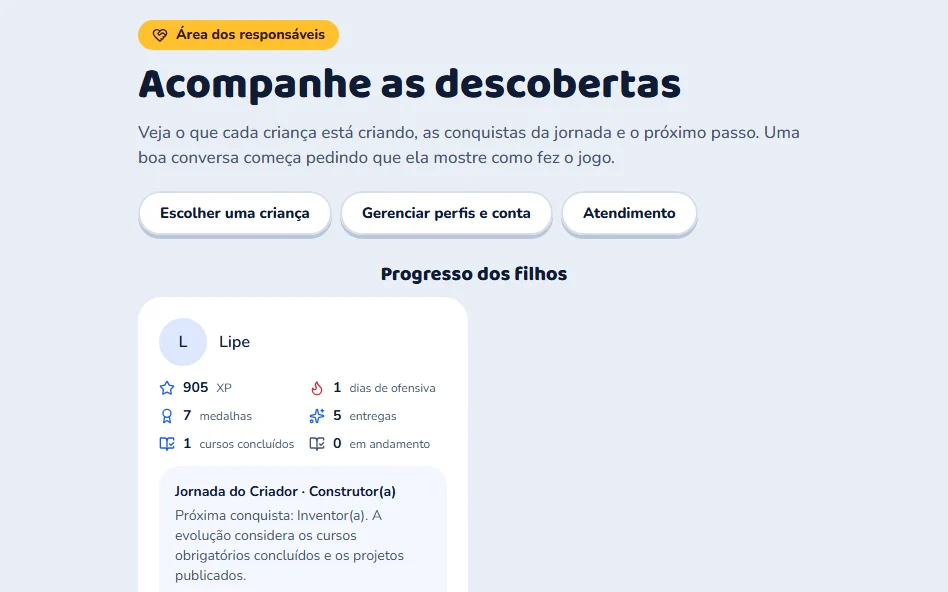
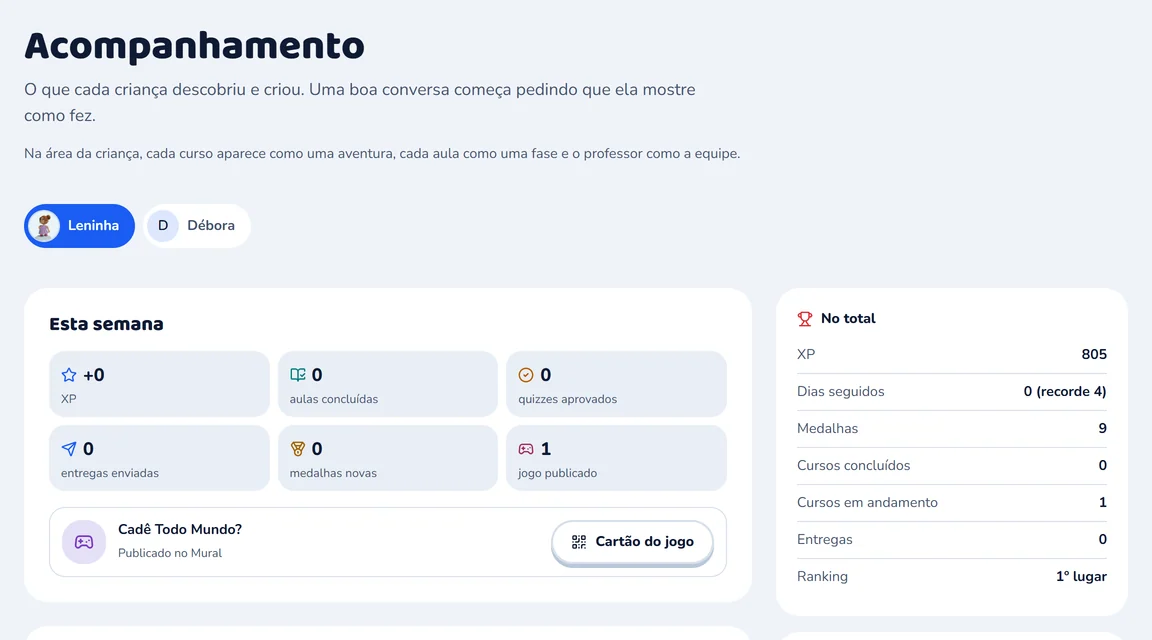
docs(como-fazer): prints do acesso e da área dos pais nova nos tutoriais e na página de vendas
- 25 prints novos nos seis tutoriais de acesso (preparar, entrar com código, trocar e voltar ao
  perfil, renovar ou encerrar e não consegui entrar), e o passo do acesso encerrado explica a
  tela que volta a pedir o código quando ninguém da família tem mais acesso no computador.
- Página de vendas: as telas da Área dos pais refeitas nas páginas novas (Acompanhamento,
  Editar perfil com a data embaçada, Atendimento, Conta e Família); Minhas compras segue a da
  conta da dona, com assinatura.
- O roteiro `pais` da captura usa a sessão do responsável e as páginas /pais, com recortes
  pelos elementos.

diff --git a/packages/funnel/scripts/captura-telas-kids.ts b/packages/funnel/scripts/captura-telas-kids.ts
@@ -20,8 +20,6 @@
  *                   (padrão: base-3-2 / dumb-animation / dumb-scene-2)
  *   KIDS_PINTA_BUSCA  o que digitar na busca da galeria para os desenhos bonitos subirem (padrão: base)
  *   KIDS_PLANO      plano do Pensa (padrão: ParOuImpar)   KIDS_MOLDA  modelo do Molda (padrão: player-2)
- *   KIDS_PAIS_SENHA_FILE  arquivo FORA do repositório com a senha da conta na primeira linha: com
- *                   ele o roteiro `pais` entra sozinho na Área dos pais (a senha nunca é impressa)
  *   KIDS_PERGUNTA   se o Zappy do Estúdio estiver sem conversa, faz esta pergunta (gasta crédito de IA)
  *   KIDS_CDP_PORT   usa um Chrome JÁ ABERTO com `--remote-debugging-port` e já logado no perfil
  *                   (dispensa o arquivo de cookies e não fecha o navegador ao fim)
@@ -32,9 +30,9 @@
  *
  * ⚠ Os cookies são uma sessão de verdade: o arquivo NUNCA entra no repositório (o script recusa um
  * caminho dentro dele), vencem em poucas horas, e o perfil do Chrome fica no TEMP e é apagado ao
- * fim. ⚠ A Área dos pais pede a senha da conta e a liberação vale 15 minutos (cookie
- * `sz_kids_parent`): rode `KIDS_SO=pais` com `KIDS_PAIS_SENHA_FILE`, ou exporte os cookies logo
- * depois de entrar nela. ⚠ Antes de fotografar o Estúdio os blocos são ORGANIZADOS (botão direito
+ * fim. ⚠ A Área dos pais é uma sessão de RESPONSÁVEL (desde o acesso infantil por aparelho,
+ * 10/10/2026): rode `KIDS_SO=pais` sozinho, com os cookies exportados logado como responsável.
+ * ⚠ Antes de fotografar o Estúdio os blocos são ORGANIZADOS (botão direito
  * numa área vazia › "Organizar blocos") e enquadrados no alto: soltos, eles ficam lá embaixo e
  * sobrepostos. Toda imagem precisa de revisão humana antes do commit (nomes de outros perfis no
  * Mural, dados na tela).
@@ -59,7 +57,6 @@ const pintaCenario = process.env.KIDS_PINTA_CENARIO ?? 'dumb-scene-2'
 const pintaBusca = process.env.KIDS_PINTA_BUSCA ?? 'base'
 const plano = process.env.KIDS_PLANO ?? 'ParOuImpar'
 const modelo = process.env.KIDS_MOLDA ?? 'player-2'
-const senhaPais = process.env.KIDS_PAIS_SENHA_FILE
 const pergunta = process.env.KIDS_PERGUNTA
 // ⚠ O token de sessão do kids GIRA a cada renovação: quem usa os cookies primeiro invalida a
 // cópia do arquivo. Para rodar o script duas vezes na mesma sessão, anexe a um Chrome já aberto.
@@ -72,10 +69,7 @@ if (!anexar && !cookiesFile) {
 }
 const repo = resolve(import.meta.dir, '..', '..', '..')
 const semCaixa = (c: string) => (process.platform === 'win32' ? c.toLowerCase() : c)
-for (const [arquivo, nome] of [
-  [cookiesFile, 'de cookies'],
-  [senhaPais, 'da senha'],
-] as const) {
+for (const [arquivo, nome] of [[cookiesFile, 'de cookies']] as const) {
   if (arquivo && semCaixa(resolve(arquivo)).startsWith(semCaixa(repo + sep))) {
     console.error(`O arquivo ${nome} não pode ficar dentro do repositório.`)
     process.exit(2)
@@ -443,12 +437,16 @@ async function main() {
     })
     await tamanho(altura, 1)
 
-    // A sessão é de PERFIL? (sem perfil a borda manda para /perfis)
-    const inicio = await abrir('/', 1500)
-    if (inicio.includes('/perfis') || inicio.includes('/login'))
-      throw new Error(
-        `A sessão não é de um perfil (caiu em ${inicio}). Exporte os cookies logado no perfil.`,
-      )
+    // A sessão é de PERFIL? (sem perfil a borda manda para /perfis ou /login; a do responsável,
+    // para /pais). O roteiro `pais` sozinho é o único que roda com a sessão do responsável.
+    const soPais = so?.length === 1 && so[0] === 'pais'
+    if (!soPais) {
+      const inicio = await abrir('/', 1500)
+      if (/\/(perfis|login|pais)/.test(inicio))
+        throw new Error(
+          `A sessão não é de um perfil (caiu em ${inicio}). Exporte os cookies logado no perfil.`,
+        )
+    }
 
     let aulas: string[] | null = null
     /** As aulas do curso, na ordem da trilha (o endereço usa o UUID, que só existe no banco). */
@@ -839,76 +837,108 @@ async function main() {
         },
       },
       /**
-       * Só roda com `KIDS_SO=pais`. Entra na Área dos pais com a senha do arquivo
-       * (`KIDS_PAIS_SENHA_FILE`) ou com os cookies exportados logo depois da senha. É o ÚLTIMO
-       * roteiro: a gestão de perfis tira a sessão do perfil da criança.
+       * Só roda com `KIDS_SO=pais` SOZINHO e com a sessão do RESPONSÁVEL (cookies exportados
+       * logado como responsável). As páginas da Área dos pais (11/10/2026): Acompanhamento,
+       * Editar perfil, Ajuda › Atendimento, Conta e Família. Nada é salvo nem enviado.
        */
       pais: {
         nomes: ['pais'],
         rodar: async () => {
           if (!so?.includes('pais')) return
-          let onde = await abrir('/responsavel', 4000)
-          if (!onde.includes('/responsavel')) {
-            if (!senhaPais)
-              throw new Error(
-                `A Área dos pais pediu a senha (caiu em ${onde}). Defina KIDS_PAIS_SENHA_FILE ou exporte os cookies logo depois de entrar nela.`,
-              )
-            const senha = (await Bun.file(senhaPais).text())
-              .replace(/^\uFEFF/, '')
-              .split(/\r?\n/)[0]
-              ?.trim()
-            if (!senha) throw new Error('O arquivo da senha está vazio.')
-            await abrir('/perfis?manage=1', 3000)
-            await clicar('Área dos pais', 0, 1200)
-            await avaliar('document.querySelector("[role=dialog] input, dialog input")?.focus(); 1')
-            await digitar(senha)
-            await clicar('Entrar', 0, 4000)
-            onde = await abrir('/responsavel', 4000)
-            if (!onde.includes('/responsavel'))
-              throw new Error('A senha da Área dos pais não foi aceita.')
-          }
+          const onde = await abrir('/pais/acompanhamento', 4000)
+          if (!onde.includes('/pais/acompanhamento'))
+            throw new Error(
+              `A Área dos pais pede a sessão do responsável (caiu em ${onde}). Exporte os cookies logado como responsável e rode só KIDS_SO=pais.`,
+            )
           so.push(
             'tela-pais-painel',
             'tela-pais-conversa',
             'tela-pais-perfil',
-            'tela-pais-indicacao',
             'tela-pais-atendimento',
             'tela-pais-chamado',
+            'tela-pais-indicacao',
+            'tela-pais-creditos',
+            'tela-pais-perfis',
           )
-          // O painel de cada criança, cortado ANTES da lista de ferramentas (na conta de teste ela
-          // diz "Não incluído na conta"), e as perguntas para conversar sobre uma criação.
-          altura = 1400
+          /** Recorte em volta dos elementos; a primeira peça sobe para perto do alto da janela. */
+          const caixaDe = async (elementos: string, folga = 20, topo = 96) => {
+            const r = (await avaliar(
+              `(() => { const secao = (t) => [...document.querySelectorAll('main h1, main h2, main h3')].find((h) => h.textContent.trim().startsWith(t))?.closest('section'); const els = (${elementos}).filter(Boolean); if (!els.length) return null; window.scrollTo(0, els[0].getBoundingClientRect().top + window.scrollY - ${topo}); const rs = els.map((e) => e.getBoundingClientRect()); const x = Math.max(0, Math.min(...rs.map((q) => q.left)) - ${folga}); const y = Math.max(0, Math.min(...rs.map((q) => q.top)) - ${folga}); const r = Math.min(innerWidth, Math.max(...rs.map((q) => q.right)) + ${folga}); const b = Math.min(innerHeight, Math.max(...rs.map((q) => q.bottom)) + ${folga}); return { x: Math.round(x), y: Math.round(y), w: Math.round(r - x), h: Math.round(b - y) } })()`,
+            )) as Recorte | null
+            if (!r) throw new Error(`Não achei ${elementos}.`)
+            return r
+          }
+          altura = 1000
           await tamanho(altura, 1)
-          await Bun.sleep(900)
-          await foto('tela-pais-painel', { x: 166, y: 28, w: 948, h: 592 })
-          await foto('tela-pais-conversa', { x: 288, y: 845, w: 704, h: 440 })
-          altura = 800
-          // Editar perfil: a visibilidade para os colegas. Só abre e cancela, nunca salva.
-          await abrir('/perfis?manage=1', 3500)
-          const perfil = (await avaliar(
-            `(() => { const b = [...document.querySelectorAll('button')].find((e) => e.getClientRects().length && e.getBoundingClientRect().height > 100 && !/adicionar/i.test(e.textContent)); if (!b) return null; const r = b.getBoundingClientRect(); return { x: r.left + r.width / 2, y: r.top + r.height / 2 } })()`,
-          )) as Ponto | null
-          if (!perfil) throw new Error('Não achei um perfil na gestão de perfis.')
-          await clicarEm(perfil.x, perfil.y)
-          await Bun.sleep(1800)
-          await foto('tela-pais-perfil', { x: 400, y: 132, w: 480, h: 536 })
-          await clicar('Cancelar', 0, 1500)
-          // O cartão do programa de indicações.
-          await abrir('/perfis?manage=1', 3500)
-          altura = 1800
-          await tamanho(altura, 1)
-          await Bun.sleep(900)
-          const cartao = (await avaliar(
-            `(() => { const h = [...document.querySelectorAll('h2')].find((x) => /embaixador/i.test(x.textContent)); if (!h) return null; let c = h; for (let i = 0; i < 8 && c.parentElement; i++) { c = c.parentElement; const r = c.getBoundingClientRect(); if (r.width > 660) return { x: r.left - 16, y: r.top - 16, w: r.width + 32, h: r.height + 32 } } return null })()`,
-          )) as Recorte | null
-          if (cartao) await foto('tela-pais-indicacao', cartao)
-          altura = 800
-          // Atendimento: a entrada e o formulário de chamado ABERTO (enviar seria um chamado real).
-          await abrir('/responsavel/ajuda', 3500)
-          await foto('tela-pais-atendimento', { x: 160, y: 24, w: 960, h: 600 })
-          await clicar('Abrir chamado', 0, 1800)
-          await foto('tela-pais-chamado', { x: 160, y: 24, w: 960, h: 600 })
+          // O que a criança fez na semana e os números no total.
+          await foto(
+            'tela-pais-painel',
+            await caixaDe(
+              `[document.querySelector('main h1'), secao('Esta semana'), secao('No total')]`,
+              24,
+            ),
+          )
+          // As perguntas para conversar e o resumo da semana por e-mail.
+          await foto(
+            'tela-pais-conversa',
+            await caixaDe(
+              `[secao('Para conversar'), document.querySelector('[role=switch]')?.closest('label')]`,
+            ),
+          )
+          // Editar perfil (a visibilidade para os colegas): só abre, nunca salva. ⚠ A data de
+          // nascimento aparece no formulário: embace-a antes de publicar a foto.
+          await abrir('/pais', 3000)
+          const crianca = String(
+            await avaliar(
+              `document.querySelector('main a[href^="/pais/crianca/"]')?.getAttribute('href')?.split('?')[0] ?? ''`,
+            ),
+          )
+          if (!crianca) throw new Error('Não achei uma criança na Família.')
+          await abrir(`${crianca}/editar`, 3000)
+          await foto(
+            'tela-pais-perfil',
+            await caixaDe(
+              `[document.querySelector('main h1'), document.querySelector('main form')]`,
+              24,
+            ),
+          )
+          // Atendimento e o formulário de chamado ABERTO (enviar seria um chamado real).
+          await abrir('/pais/ajuda/atendimento', 3500)
+          await foto(
+            'tela-pais-atendimento',
+            await caixaDe(
+              `[document.querySelector('main h1, main h2'), ...[...document.querySelectorAll('main section, main div')].filter((d) => /ainda não tem chamados/.test(d.textContent) && d.getBoundingClientRect().height > 120 && d.getBoundingClientRect().height < 600).slice(-1)]`,
+              24,
+            ),
+          )
+          await clicar('Abrir chamado', 0, 1500)
+          await foto(
+            'tela-pais-chamado',
+            await caixaDe(`[document.querySelector('main form')]`, 24, 110),
+          )
           await clicar('Cancelar', 0, 800)
+          // Conta: o programa de indicações e a ajuda da IA. "Minhas compras" sai da conta da
+          // dona, com assinatura ativa: o staging não tem uma para mostrar.
+          await abrir('/pais/conta', 3500)
+          await foto(
+            'tela-pais-indicacao',
+            await caixaDe(`[document.querySelector('#embaixador')]`, 16),
+          )
+          await foto(
+            'tela-pais-creditos',
+            await caixaDe(
+              `[document.querySelector('section[aria-labelledby="parents-ai"]')]`,
+              16,
+              110,
+            ),
+          )
+          // Família: os cartões das crianças, sem a frase do limite de perfis do plano.
+          await abrir('/pais', 3000)
+          await foto(
+            'tela-pais-perfis',
+            await caixaDe(`[secao('Suas crianças')?.querySelector('ul')]`, 20),
+          )
+          altura = 800
         },
       },
     }

diff --git a/packages/funnel/src/funnels/comunidade-dos-criadores/oferta/visuals.ts b/packages/funnel/src/funnels/comunidade-dos-criadores/oferta/visuals.ts
@@ -82,6 +82,9 @@ export const COMUNIDADE_VISUALS: Record<string, ComunidadeVisual> = {
     ],
     caption: 'Um personagem preparado permite começar pelas regras do jogo.',
   },
+  // ⚠ `tela-pinta-vetor`, `tela-pinta` e `tela-animacao` mostram a caixa do editor de vetor de
+  // ANTES de 10/10/2026 (os seis botões de espessura no alto; hoje a espessura mora em
+  // Aparência). Refazer com o roteiro `pinta` no perfil do Lipe, que tem esses desenhos.
   'pinta-vetor': {
     frames: [
       tela(
@@ -442,17 +445,17 @@ export const COMUNIDADE_VISUALS: Record<string, ComunidadeVisual> = {
     frames: [
       tela(
         'pais-painel',
-        'Área dos responsáveis',
-        'Área dos responsáveis com o progresso de cada criança: pontos, medalhas, entregas, cursos e o posto na Jornada do Criador.',
-        948,
-        592,
+        'Acompanhamento',
+        'Acompanhamento na Área dos pais: a escolha da criança, o que ela fez nesta semana, o jogo publicado no Mural e os números no total, como pontos, medalhas, cursos e entregas.',
+        1152,
+        640,
       ),
       tela(
         'pais-conversa',
         'Para conversar sobre uma criação',
-        'Área dos responsáveis com o resumo da semana por e-mail, perguntas para conversar sobre uma criação e o atendimento.',
-        704,
-        440,
+        'Perguntas para conversar sobre uma criação e o interruptor Receber o resumo da semana por e-mail, no Acompanhamento da Área dos pais.',
+        392,
+        346,
       ),
     ],
     caption: 'Você localiza uma criação para conhecer e conversar com seu filho.',
@@ -462,9 +465,9 @@ export const COMUNIDADE_VISUALS: Record<string, ComunidadeVisual> = {
       tela(
         'pais-perfil',
         'Editar perfil',
-        'Editar perfil na Área dos pais, com a opção Perfil público na comunidade kids desmarcada.',
-        480,
-        536,
+        'Editar o perfil de uma criança na Área dos pais, com o nome, a data de nascimento (embaçada aqui) e a opção Perfil público na comunidade kids.',
+        542,
+        470,
       ),
     ],
     caption: 'O responsável administra a visibilidade do perfil para os colegas.',
@@ -475,16 +478,16 @@ export const COMUNIDADE_VISUALS: Record<string, ComunidadeVisual> = {
       tela(
         'pais-atendimento',
         'Atendimento',
-        'Atendimento na Área dos pais, com o botão Abrir chamado.',
-        960,
-        600,
+        'Atendimento, na Ajuda da Área dos pais, com os botões Atualizar e Abrir chamado.',
+        835,
+        355,
       ),
       tela(
         'pais-chamado',
         'Abrir chamado',
         'Formulário Abrir chamado, com assunto, categoria e o campo para contar o que aconteceu.',
-        960,
-        600,
+        634,
+        418,
       ),
     ],
     caption: 'O atendimento da família reúne dúvidas sobre conta e assinatura.',
@@ -494,24 +497,25 @@ export const COMUNIDADE_VISUALS: Record<string, ComunidadeVisual> = {
       tela(
         'pais-indicacao',
         'Seja um embaixador',
-        'Cartão Seja um embaixador do Sistema Zero na Área dos pais, com as condições do programa de indicações.',
-        704,
-        268,
+        'Cartão Seja um embaixador do Sistema Zero, na Conta da Área dos pais, com as condições do programa de indicações.',
+        1136,
+        266,
       ),
     ],
     caption: 'O convite segue as condições apresentadas no programa de indicações.',
   },
-  // As três abaixo vêm de capturas da própria dona na conta dela (02/10/2026), recortadas e com
-  // o sobrenome da criança e os dígitos do cartão embaçados. O @2x é ampliado: não há captura
-  // em escala 2 dessas telas.
+  // As telas da Área dos pais são capturas do staging de 11/10/2026 (páginas próprias), menos
+  // "Minhas compras": ela vem de uma captura da própria dona na conta dela (02/10/2026), com os
+  // dígitos do cartão embaçados, porque o staging não tem assinatura ativa para mostrar. O @2x
+  // dela é ampliado: não há captura em escala 2.
   creditos: {
     frames: [
       tela(
         'pais-creditos',
         'Ajuda da IA neste mês',
-        'Quadro Ajuda da IA neste mês na Área dos pais: 0 de 500 no mês, renovação em 1º de novembro, 0 de 50 no dia e o aviso de que as crianças da família dividem o mesmo total.',
-        720,
-        193,
+        'Quadro Ajuda da IA neste mês, na Conta da Área dos pais: 0 de 500 no mês, renovação em 1º de novembro, 0 de 50 no dia e o aviso de que as crianças da família dividem o mesmo total.',
+        384,
+        239,
       ),
     ],
     caption: 'O saldo de ajuda da IA do mês é um só para a família e aparece na Área dos pais.',
@@ -533,14 +537,14 @@ export const COMUNIDADE_VISUALS: Record<string, ComunidadeVisual> = {
     frames: [
       tela(
         'pais-perfis',
-        'Gerenciar perfis',
-        'Gerenciar perfis na Área dos pais, com o perfil de uma criança, o botão Adicionar e a indicação 1 de 2 perfis do seu plano.',
-        640,
-        400,
+        'Família',
+        'Suas crianças, na Família da Área dos pais: o cartão de cada criança com o acesso Liberado, os números da jornada, o que fez na semana e os botões Acesso nos aparelhos e Ver progresso.',
+        1144,
+        550,
       ),
     ],
     caption:
-      'Cada criança tem o próprio perfil. A Área dos pais mostra quantos perfis cabem no plano.',
+      'Cada criança tem o próprio cartão na Área dos pais, com o acesso nos aparelhos e o progresso.'
   },
 }
 

diff --git a/docs/como-fazer/PRINTS-A-REFAZER-2026-10-06.md b/docs/como-fazer/PRINTS-A-REFAZER-2026-10-06.md
@@ -397,3 +397,19 @@ Estes prints mostram uma parte da tela em que o rótulo antigo só aparece se o 
 - 3 prints novos da galeria, que ainda não existem no lote (seção "Prints novos").
 - Os outros 94 mostram só telas das ferramentas (Estúdio completo, Pinta, Pensa, Molda, avatar e
   Mural) e não têm rótulo antigo.
+
+## Atualização de 11/10/2026 (área dos pais com páginas próprias)
+
+- Os seis tutoriais de acesso ganharam 25 prints novos, tirados no staging com a Leninha e a Débora:
+  `plataforma-entrar-com-codigo`, `plataforma-nao-consigo-entrar`,
+  `plataforma-preparar-acesso-da-crianca`, `plataforma-renovar-ou-encerrar-acesso`,
+  `plataforma-trocar-de-perfil` e `plataforma-voltar-ao-meu-perfil`.
+- ⚠ A grade "Quem vai criar hoje?" mudou de desenho no mesmo dia (logo, título no meio, ações em
+  pílula). Refazer depois do deploy: `plataforma-trocar-de-perfil/escolher`,
+  `plataforma-voltar-ao-meu-perfil/perfil`, `plataforma-entrar-com-codigo/voltar` e
+  `plataforma-nao-consigo-entrar/encerrado`.
+- Faltam prints que dependem de um acesso VENCIDO (o prazo mínimo é "Somente hoje"):
+  `plataforma-nao-consigo-entrar/prazo` e `plataforma-voltar-ao-meu-perfil/vencido`. Os passos
+  `plataforma-nao-consigo-entrar/tentativas` e `/navegador` seguem só com texto.
+- Os 28 prints dos tutoriais do Pinta são do editor de PIXEL e continuam certos depois da mudança
+  da espessura do vetor (10/10/2026).
